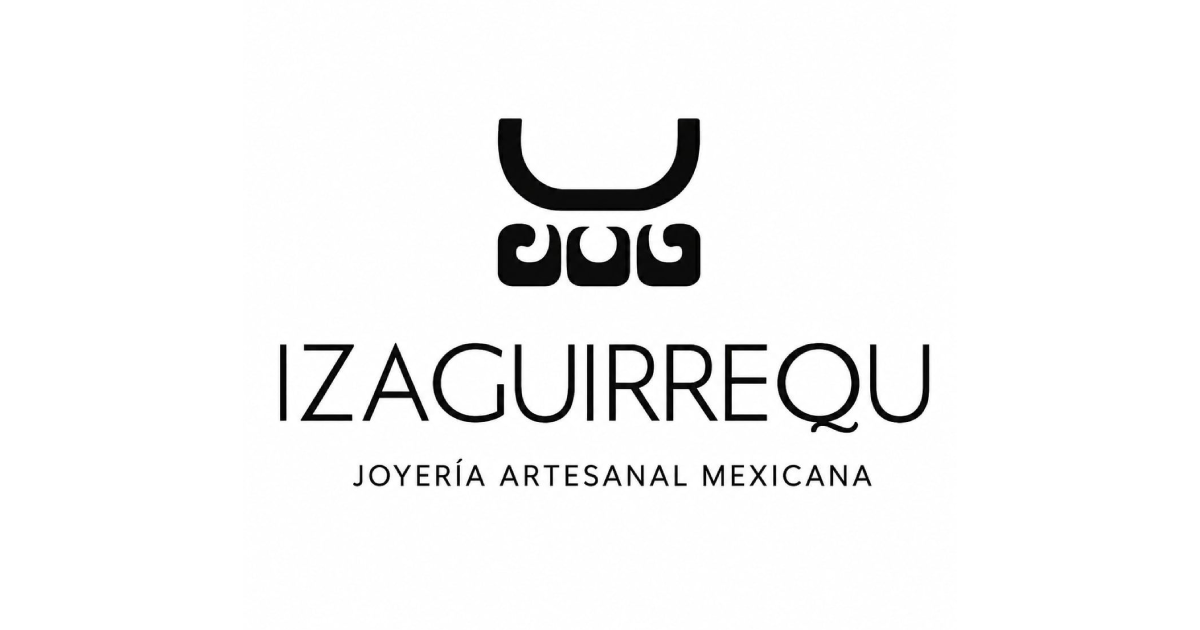
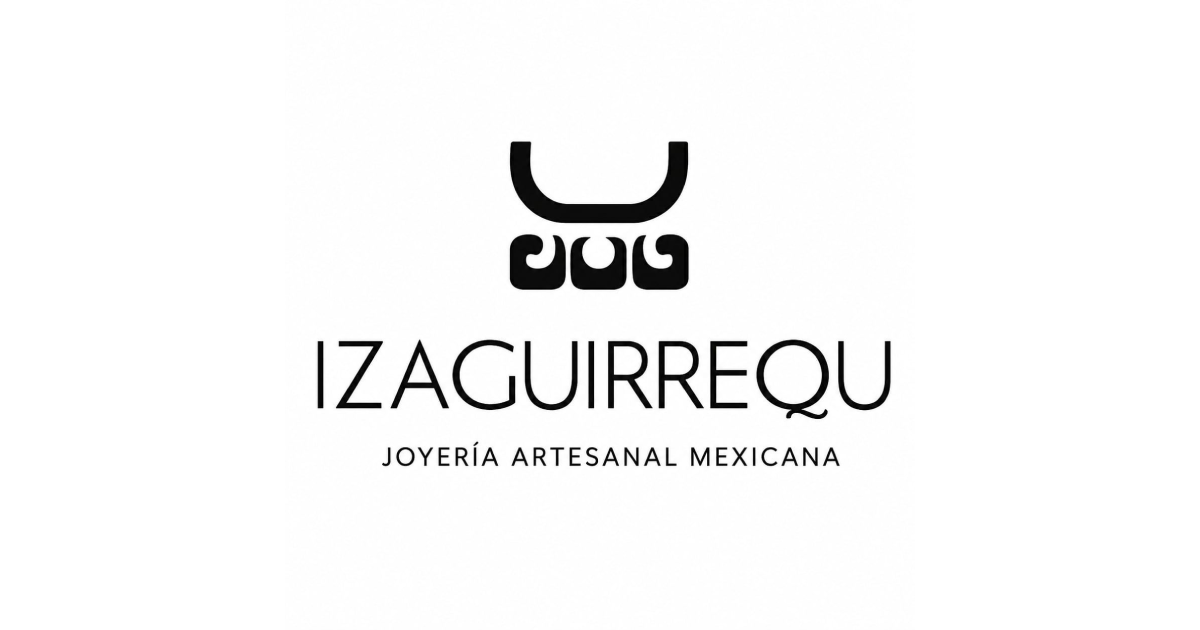
se grego sitempa

Changed region(s): [[0.2158, 0.5429, 0.8017, 0.7841], [0.4008, 0.181, 0.5858, 0.4825]]

diff --git a/resources/js/App.vue b/resources/js/App.vue
@@ -7,12 +7,13 @@
       height="auto"
       class="py-0 main-navbar"
     >
-      <v-container class="d-flex align-center">
+      <v-container class="navbar-container">
         <v-app-bar-title class="pa-0">
           <router-link to="/" class="brand-logo text-decoration-none">
             <div class="brand-lockup">
-              <!-- <span class="brand-mark">IQ</span> -->
-               <img :src="logo" alt="IzaguirreQu Logo" class="brand-mark" />
+              <div class="brand-mark">
+                <img :src="logo" alt="IzaguirreQu Logo" />
+              </div>
               <div class="brand-copy">
                 <span class="brand-wordmark">IzaguirreQu</span>
                 <span class="brand-note">joyeria artesanal mexicana</span>
@@ -156,9 +157,9 @@
           <v-col cols="12" md="4" class="mb-6 mb-md-0">
             <div class="footer-brand mb-4">
               <div class="footer-brand-block">
-                <!-- <span class="footer-mark">IQ</span> -->
-
-                 <img :src="logo" alt="IzaguirreQu Logo" class="footer-mark" />
+                <div class="footer-mark">
+                  <img :src="logo" alt="IzaguirreQu Logo" />
+                </div>
                 <div class="footer-brand-copy">
                   <strong>IzaguirreQu</strong>
                   <span>hecho con detalle y calma</span>
@@ -333,6 +334,7 @@ header {
   display: flex;
   align-items: center;
   color: #6b5b47;
+
 }
 
 /* Navbar hide animation */
@@ -343,6 +345,12 @@ header {
   box-shadow: 0 10px 35px rgba(140, 116, 95, 0.08);
   transition: transform 0.3s ease-in-out !important;
   will-change: transform;
+}
+
+.navbar-container {
+  display: flex !important;
+  align-items: center !important;
+  justify-content: space-between !important;
 }
 
 .main-navbar.hidden {
@@ -370,12 +378,20 @@ header {
   align-items: center;
   justify-content: center;
   border-radius: 10%;
- 
   margin: auto;
   color: #fffaf4;
   font-size: 1rem;
   letter-spacing: 0.12em;
   box-shadow: 0 8px 20px rgba(239, 213, 190, 0.18);
+  object-fit: contain;
+  overflow: hidden;
+}
+
+.brand-mark img,
+.footer-mark img {
+  width: 100%;
+  height: 100%;
+  object-fit: contain;
 }
 
 .brand-copy,
@@ -412,15 +428,48 @@ header {
   }
 }
 @media (max-width: 600px) {
-
   .brand-lockup {
-    gap: 10px;
+    gap: 8px;
   }
 
   .brand-mark,
   .footer-mark {
-    width: 40px;
-    height: 40px;
+    width: 42px;
+    height: 42px;
+    min-width: 42px;
+    min-height: 42px;
+    flex-shrink: 0;
+  }
+
+  .brand-wordmark {
+    font-size: 1.05rem;
+  }
+
+  .brand-note {
+    font-size: 0.58rem;
+  }
+
+  .v-toolbar__content {
+    padding: 8px 16px !important;
+  }
+
+  .navbar-container {
+    flex-wrap: nowrap !important;
+  }
+
+  .v-app-bar-title {
+    flex: 0 1 auto !important;
+    max-width: calc(100% - 60px) !important;
+    overflow: hidden;
+  }
+
+  .brand-logo {
+    display: block;
+    width: 100%;
+  }
+
+  .nav-links {
+    display: none !important;
   }
 }
 

diff --git a/resources/js/pages/Home.vue b/resources/js/pages/Home.vue
@@ -125,21 +125,21 @@
         <v-col cols="12" md="10">
           <div class="values-grid">
             <div class="value-card" data-aos="fade-up">
-              <div class="value-icon">✨</div>
-              <h4>Artesanal</h4>
-              <p>Cada pieza es única, hecha a mano con técnicas tradicionales mexicanas.</p>
+              <div class="value-icon">🌿</div>
+              <h4>Sostenible</h4>
+              <p>Minería de plata responsable sostenida</p>
             </div>
             
             <div class="value-card" data-aos="fade-up" data-aos-delay="200">
-              <div class="value-icon">🌿</div>
-              <h4>Sostenible</h4>
-              <p>Materiales responsables y procesos que respetan el medio ambiente.</p>
+              <div class="value-icon">💎</div>
+              <h4>Calidad</h4>
+              <p>Cuidamos de todos los detalles desde el diseño hasta la fabricación</p>
             </div>
             
             <div class="value-card" data-aos="fade-up" data-aos-delay="400">
-              <div class="value-icon">💎</div>
-              <h4>Calidad</h4>
-              <p>Metales nobles y gemas seleccionadas para crear piezas duraderas.</p>
+              <div class="value-icon">✨</div>
+              <h4>Artesanal</h4>
+              <p>Piezas con Alma hechas por manos Mexicanas</p>
             </div>
           </div>
         </v-col>